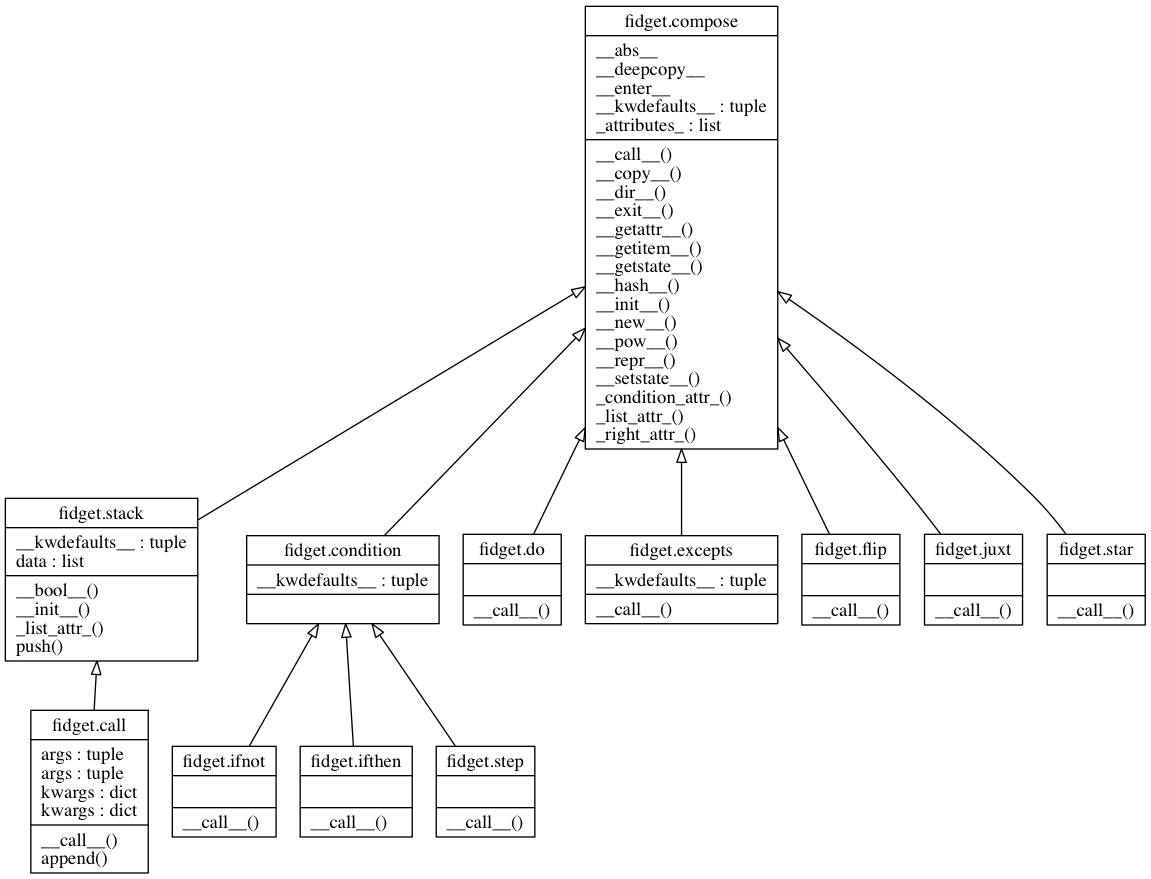
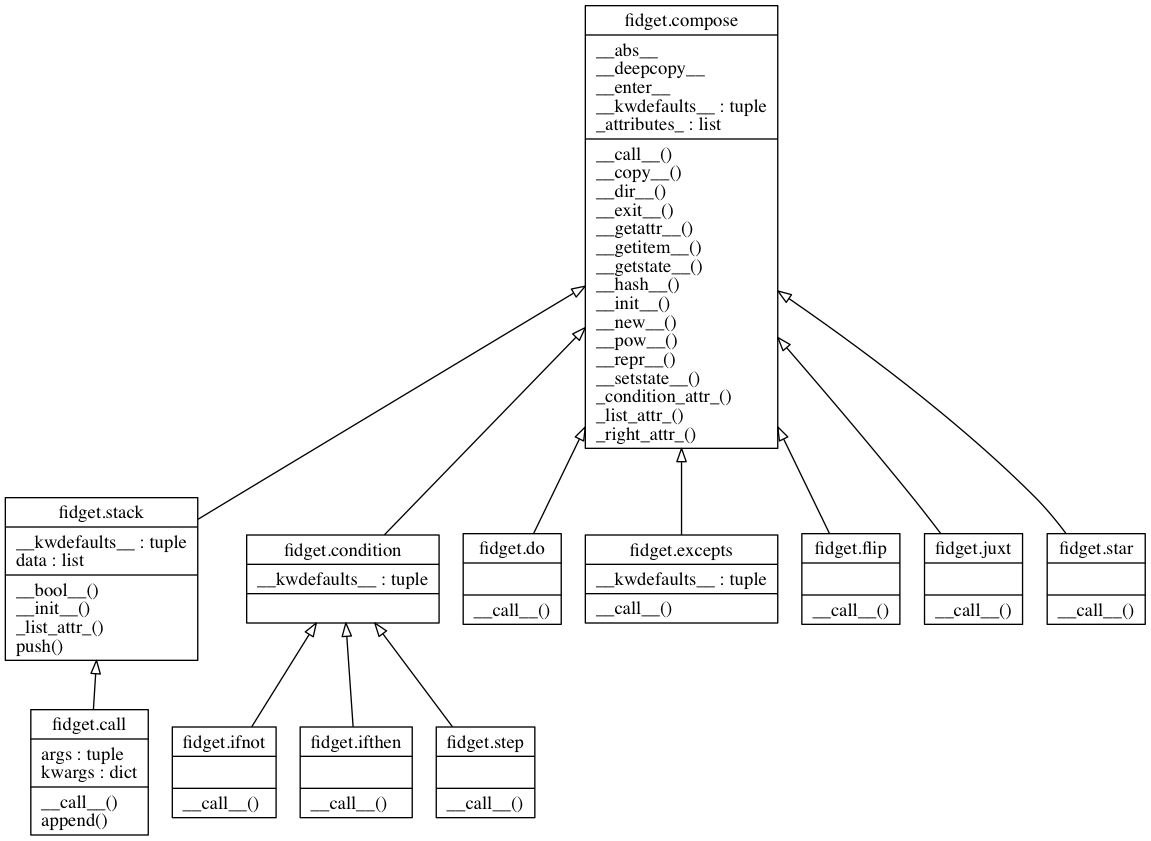
readme mods

diff --git a/fidget.py b/fidget.py
@@ -211,7 +211,8 @@ class call(stack):
         return new.append(object)
     
     args, kwargs = tuple(), dict()    
-    def __call__(self, *args, **kwargs):        
+    def __call__(self, *args, **kwargs):     
+        self = type(self)()
         self.args, self.kwargs = args, kwargs
         return self
 
@@ -239,4 +240,7 @@ for other in ['mul', 'add', 'rshift' ,'sub', 'and', 'or', 'xor', 'truediv', 'flo
 
 
 a = an = the = then = f = call()
+
+
+
 

diff --git a/readme.md b/readme.md
@@ -20,7 +20,7 @@
 
 
 
-    {0: [4, 5, 6, 7, 8, 9], 1: [3]}
+    {}
 
 
 
@@ -104,4 +104,9 @@
 
     !jupyter nbconvert --to markdown readme.ipynb
     !pyreverse -o png -bmy -fALL fidget
+
+
+    [NbConvertApp] Converting notebook readme.ipynb to markdown
+    [NbConvertApp] Writing 1978 bytes to readme.md
+    parsing /Users/tonyfast/fidget/fidget.py...
 
